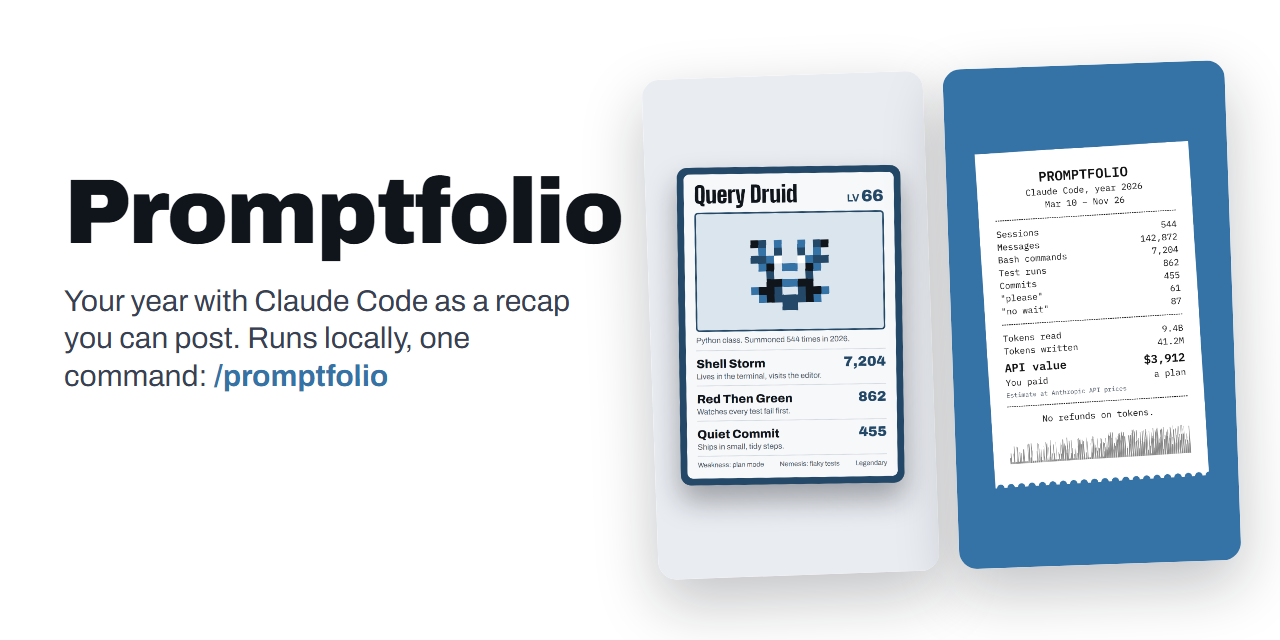
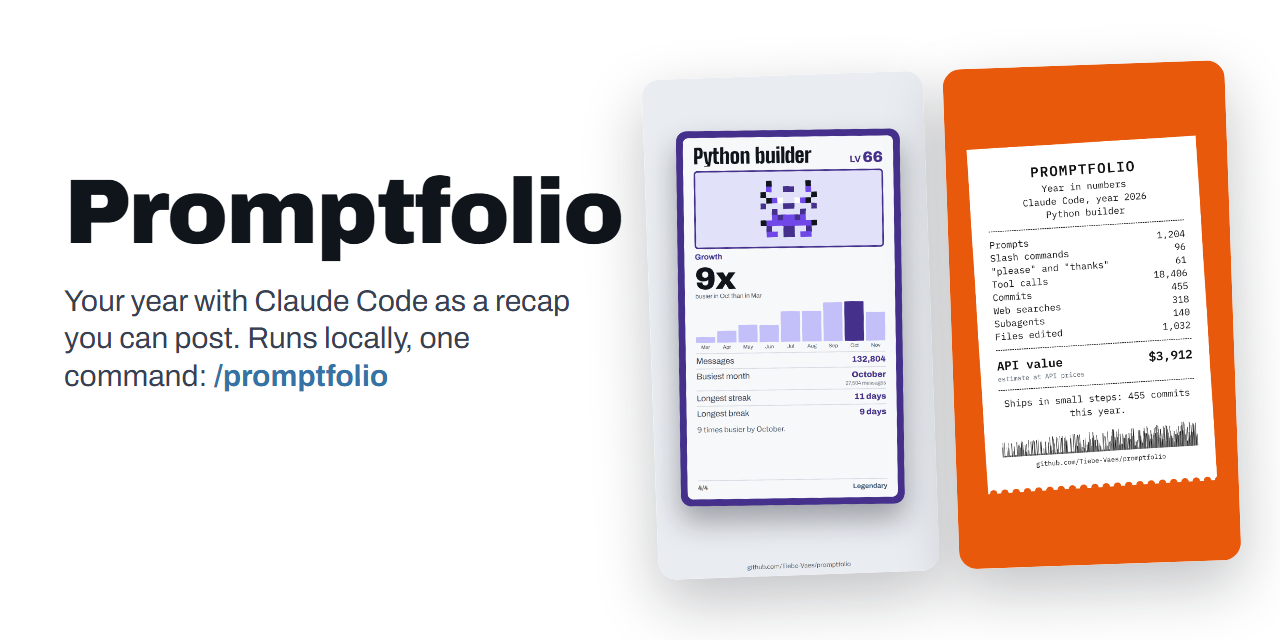
Polish styles after real-data review

Changed region(s): [[0.5, 0.0938, 0.9688, 0.9062], [0.5938, 0.875, 0.6562, 0.9062]]

diff --git a/src/render/model.ts b/src/render/model.ts
@@ -88,10 +88,11 @@ export function buildCard(id: CardId, stats: Stats, copy: Copy, picked: CardId[]
     const fav = stats.tokens.favoriteModel;
     if (fav) add(s.favorite, 1, `${modelLabel(fav.model)}, ${Math.round(fav.share * 100)}%`);
     const eq = new Map(stats.equivalents.map(e => [e.id, e.value]));
+    // A value that rounds to 0 ("0 Wh", "0 glasses") says nothing; leave it out.
     const wh = eq.get('energy');
-    if (wh) add(s.energy, wh, `${n(wh)} Wh`, s.estimate);
+    if (wh && wh >= 0.5) add(s.energy, wh, `${n(wh)} Wh`, s.estimate);
     const water = eq.get('water');
-    if (water) add(s.water, water, s.glasses(num(water, lang, 1)), s.estimate);
+    if (water && water >= 0.05) add(s.water, water, s.glasses(num(water, lang, 1)), s.estimate);
     return { ...base, hero: { value: compact(stats.tokens.yearTotal, lang), label: escapeHtml(s.tokensYear) }, items };
   }
 

diff --git a/design/social/hero.html b/design/social/hero.html
@@ -3,5 +3,5 @@ html,body{margin:0;width:1600px;height:760px;background:#E9ECF1;overflow:hidden}
 .row{display:flex;gap:28px;justify-content:center;align-items:center;height:760px}
 img{height:660px;border-radius:22px;box-shadow:0 24px 60px rgba(16,21,28,.22)}
 </style></head><body><div class="row">
-<img src="../demo/fun/cards/tokens-story.png"><img src="../demo/fun/cards/receipt-story.png"><img src="../demo/fun/cards/card-story.png"><img src="../demo/pro/cards/growth-story.png">
+<img src="../demo/clean/cards/clean-tokens-story.png"><img src="../demo/receipt/cards/receipt-year-story.png"><img src="../demo/terminal/cards/terminal-toolkit-story.png"><img src="../demo/card/cards/card-growth-story.png">
 </div></body></html>

diff --git a/design/social/preview.html b/design/social/preview.html
@@ -9,5 +9,5 @@ code{font-family:Archivo,sans-serif;font-weight:700;color:#3572A5}
 .r img{height:500px;border-radius:18px;box-shadow:0 24px 60px rgba(16,21,28,.25)}
 </style></head><body>
 <div class="l"><h1>Promptfolio</h1><p>Your year with Claude Code as a recap you can post. Runs locally, one command: <code>/promptfolio</code></p></div>
-<div class="r"><img src="../demo/fun/cards/card-story.png"><img src="../demo/fun/cards/receipt-story.png"></div>
+<div class="r"><img src="../demo/card/cards/card-growth-story.png"><img src="../demo/receipt/cards/receipt-year-story.png"></div>
 </body></html>

diff --git a/tests/render/model.test.ts b/tests/render/model.test.ts
@@ -99,3 +99,13 @@ test('strings are escaped', () => {
   expect(m.line).not.toContain('<img');
 });
 
+
+test('equivalents that round to zero are left out', () => {
+  const s = merge(stats, { equivalents: [
+    { id: 'energy', value: 0.3, unit: 'Wh', label: 'e', sourceUrl: 'x' },
+    { id: 'water', value: 0.004, unit: 'glasses', label: 'w', sourceUrl: 'x' },
+  ] });
+  const labels = buildCard('tokens', s, proCopy)!.items.map(i => i.label);
+  expect(labels).not.toContain('energy');
+  expect(labels).not.toContain('water');
+});
